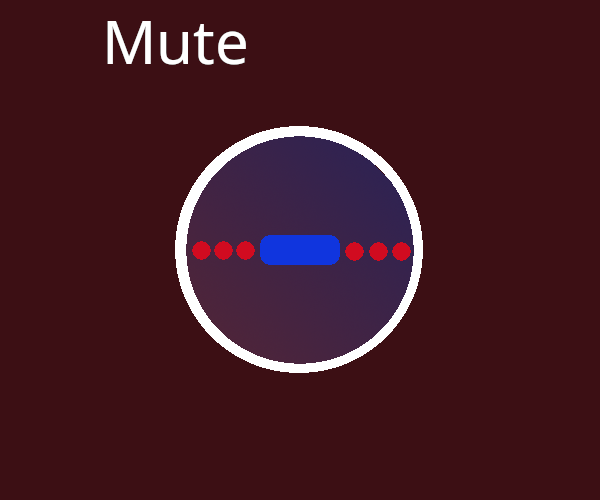
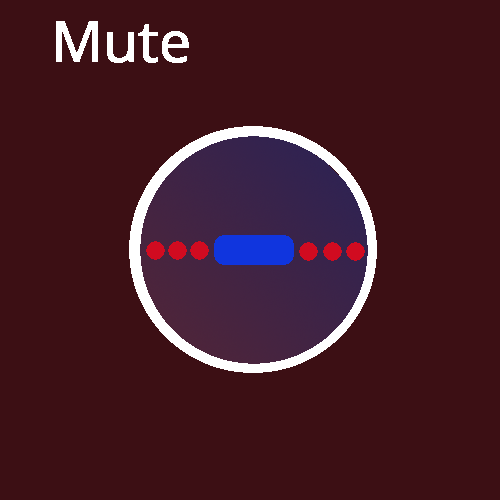
ajout interface mute

Changed region(s): [[0.51, 0.24, 0.78, 0.75], [0.24, 0.27, 0.45, 0.75], [0.09, 0.03, 0.42, 0.15]]

diff --git a/src/SixTK.py b/src/SixTK.py
@@ -1,15 +1,46 @@
 from setting.arreraAssistantSetting import *
+from PIL import Image, ImageTk
+from src.SIXGestion import*
 
 class sixTk :
-    def __init__(self):
+    def __init__(self,gestionnaire:SIXGestion):
         self.para = ArreraSettingAssistant("setting/configSetting.json","configNeuron.json","sixConfig.json","FileUser/configUser.json") 
-        
+        self.gestionnaire = gestionnaire    
+    
     def activePara(self):
         self.screenPara = Tk()
+        self.screenPara.iconphoto(False,PhotoImage(file="asset/logo.png"))
         self.para.windows(self.screenPara)
         self.para.passageFonctionQuitter(self.fncQuit)
         self.para.mainView()
         self.screenPara.mainloop()
+
+    def muteSix(self)->int:
+        self.varOut = 0
+        screenMute = Tk()
+        image = Image.open(self.gestionnaire.getGUIMute())
+        photo = ImageTk.PhotoImage(image)
+        screenMute.title("Assistant Mute")
+        screenMute.iconphoto(False,PhotoImage(file="asset/logo.png"))
+        screenMute.maxsize(500,500)
+        screenMute.minsize(500,500)
+        fond = Canvas(screenMute,width=500,height=500)
+        fond.create_image(0, 0, anchor=NW, image=photo)
+        btnQuitter = Button(fond,text="Quitter",font=("arial","15"),command=lambda:self.quitMute(screenMute))
+        btnUmute = Button(fond,text="Demuter",font=("arial","15"),command=lambda:self.uMute(screenMute))
+        btnUmute.place(x=((fond.winfo_reqwidth()-btnUmute.winfo_reqwidth())-20),y=((fond.winfo_reqheight()-btnUmute.winfo_reqheight())-20))
+        btnQuitter.place(x=20,y=((fond.winfo_reqheight()-btnQuitter.winfo_reqheight())-20))
+        fond.pack()
+        screenMute.mainloop()
+        return self.varOut
+    
+    def uMute(self,screen:Tk):
+        self.varOut = 0 
+        screen.destroy()
+    
+    def quitMute(self,screen:Tk):
+        self.varOut = 15
+        screen.destroy()
     
     def fncQuit(self):
         self.screenPara.destroy()

diff --git a/src/srcSix.py b/src/srcSix.py
@@ -77,7 +77,7 @@ class SIXsrc :
         
     def openParametre(self,texte:str):
         tts = gTTS(texte, lang="fr")
-        theardParole = th.Thread(target=self.interface.interfaceCloseOpenParametre,args=(texte,))
+        theardParole = th.Thread(target=self.interface.interfaceCloseOpenTKInterface,args=(texte,))
         tts.save("voc.mp3")
         theardParole.start()
         playsound("voc.mp3")
@@ -89,12 +89,36 @@ class SIXsrc :
     def closeParametre(self,texte):
         tts = gTTS(texte, lang="fr")
         self.interface.initialisationFenetre()
-        theardParole = th.Thread(target=self.interface.interfaceCloseOpenParametre,args=(texte,))
+        theardParole = th.Thread(target=self.interface.interfaceCloseOpenTKInterface,args=(texte,))
         tts.save("voc.mp3")
         theardParole.start()
         playsound("voc.mp3")
         theardParole.join()
         os.remove("voc.mp3")
+
+    def activeMute(self,texte)->int:
+        tts = gTTS(texte, lang="fr")
+        theardParole = th.Thread(target=self.interface.interfaceCloseOpenTKInterface,args=(texte,))
+        tts.save("voc.mp3")
+        theardParole.start()
+        playsound("voc.mp3")
+        theardParole.join()
+        os.remove("voc.mp3")
+        self.interface.quitWindows()
+
+    def quitMute(self,var:int,texte:str):
+        tts = gTTS(texte, lang="fr")
+        tts.save("voc.mp3")
+        if var == 15 :
+            playsound("voc.mp3")
+            os.remove("voc.mp3")
+        else :
+            self.interface.initialisationFenetre()
+            theardParole = th.Thread(target=self.interface.interfaceCloseOpenTKInterface,args=(texte,))
+            theardParole.start()
+            playsound("voc.mp3")
+            theardParole.join()
+            os.remove("voc.mp3") 
 
     def _division(self,text, nombre):
         mots = text.split()

diff --git a/src/sixInterface.py b/src/sixInterface.py
@@ -38,7 +38,7 @@ class SIXInterface:
     def interfaceMain(self):
         self.root.blit(self.mainGUI.convert(),(0,0))
         pygame.display.update()
-    
+
     def interfaceBoot(self,text:str):
         texte = text
         self.root.blit(self.AcceuilGUI.convert(),(0,0))
@@ -108,7 +108,7 @@ class SIXInterface:
             self._affichageEntre(False)
         pygame.display.update()
 
-    def interfaceCloseOpenParametre(self,texte:str):
+    def interfaceCloseOpenTKInterface(self,texte:str):
         texte = texte
         self.root.blit(self.AcceuilGUI.convert(),(0,0))
         if self._compteur(texte) >= 4 :

diff --git a/src/SIXGestion.py b/src/SIXGestion.py
@@ -75,7 +75,7 @@ class SIXGestion :
        
     def getGUIMute(self):
         if self.themeSet == True :
-            return pygame.image.load(self.lienMute)
+            return self.lienMute
 
     def getGUIparoleBigSmall(self):
         if self.themeSet == True :
